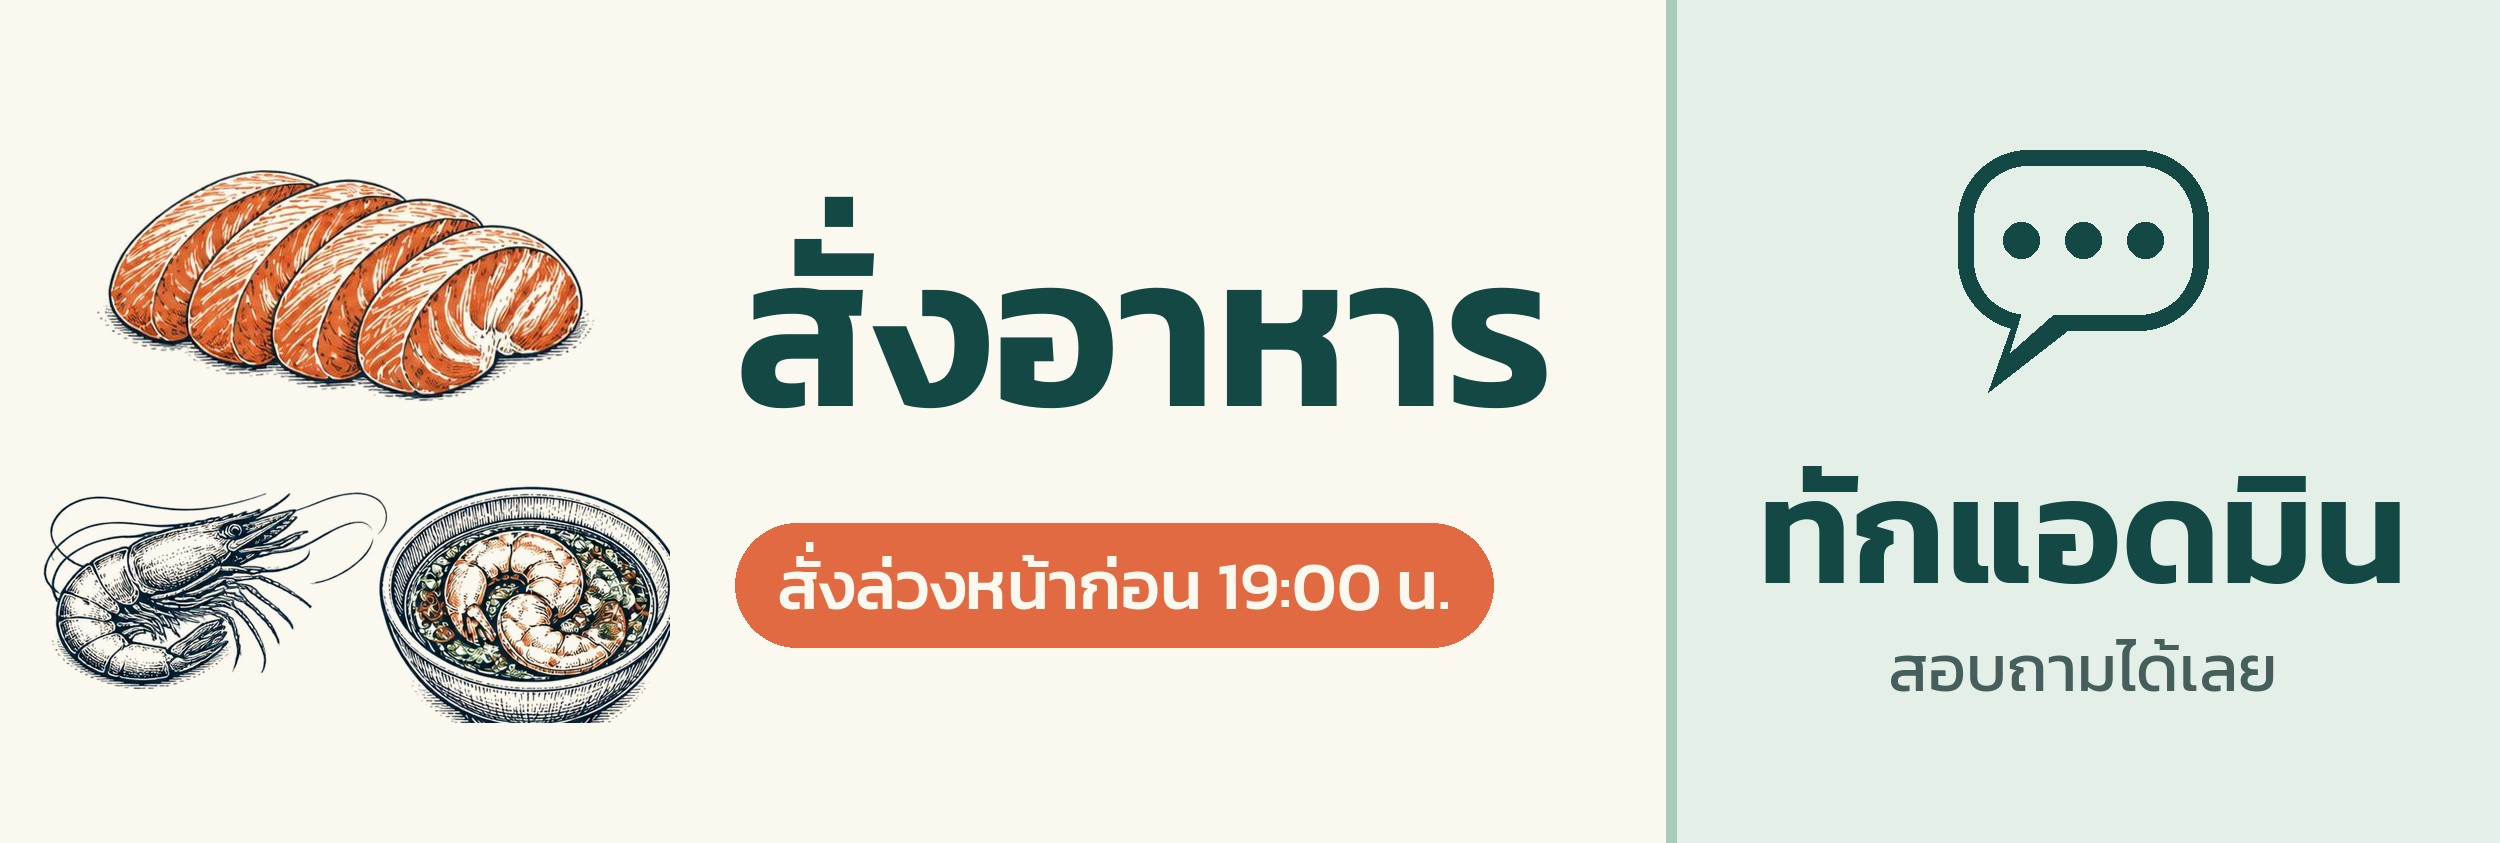
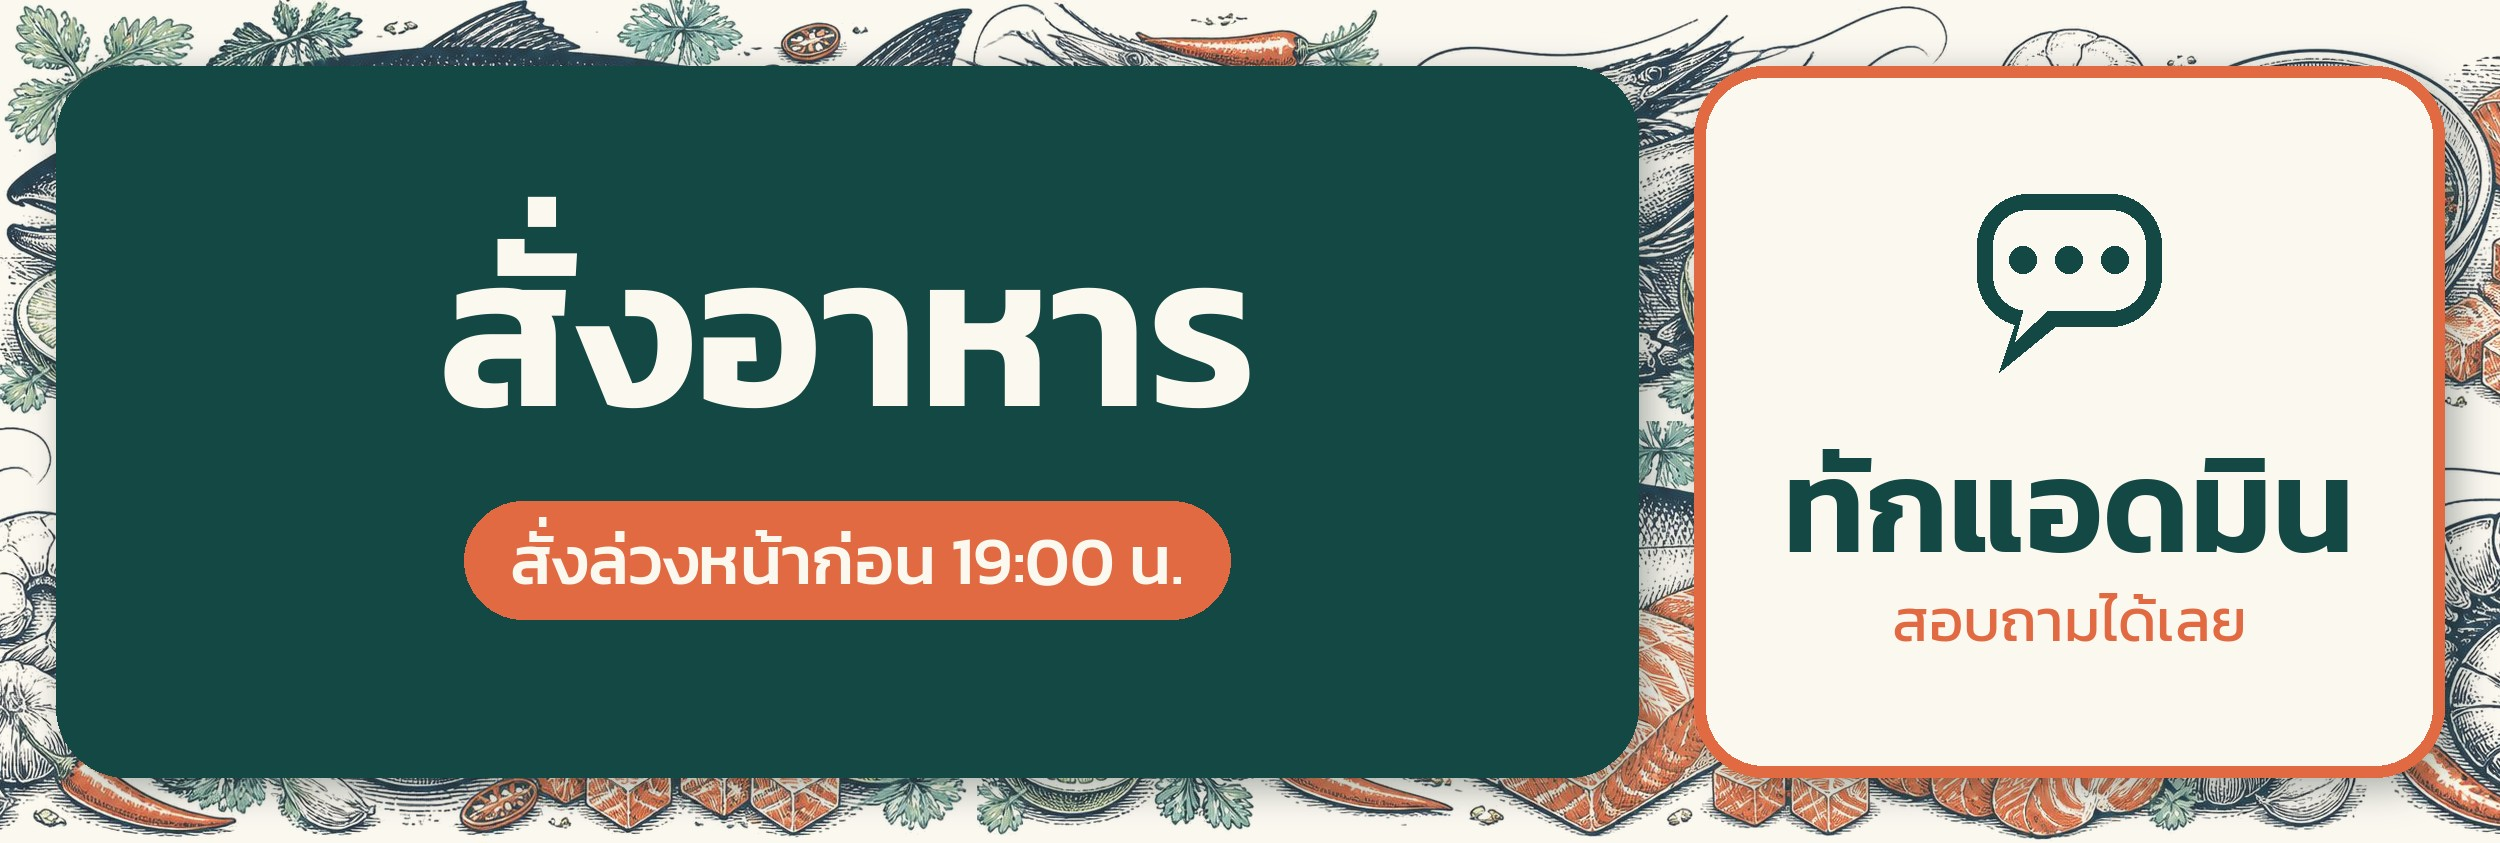
feat(shop): new LINE rich menu image (no orange frame on the order button)
Same 2500x843 layout and tap areas (split at x=1666), new artwork C picked.

Claude-Session: https://claude.ai/code/session_01CPfmM4YwK7xFYiJ9At1hJW

diff --git a/docs/shop-setup.md b/docs/shop-setup.md
@@ -104,7 +104,7 @@ Channel ID กับ Channel secret (แท็บ Basic settings) **ไม่ต
 
 ## เมนูไลน์ (Rich menu)
 ตั้งให้อัตโนมัติผ่าน Messaging API — เจ้าของร้านไม่ต้องเข้า LINE Official Account Manager
-- รูป: `public/shop/line/richmenu.jpg` (2500×843 ตามแบรนด์หลัก รูปเดียวกันทุกสาขา · ต้นฉบับ `shop/brand/ริชเมนู-LINE-2500x843.jpg` สร้างด้วย `shop/brand/สคริปต์ริชเมนู.py` ในโฟลเดอร์ไฟล์ของโปรเจกต์)
+- รูป: `public/shop/line/richmenu.jpg` (2500×843 ตามแบรนด์หลัก รูปเดียวกันทุกสาขา · ต้นฉบับ `shop/brand/ริชเมนู-แบบใหม่/richmenu-ใช้จริง-2500x843.jpg` ในโฟลเดอร์ไฟล์ของโปรเจกต์ · ไลน์รับรูปไม่เกิน 1 MB)
 - ซ้าย "สั่งอาหาร" (กว้าง 1666) → หน้าร้านของสาขา หรือ `https://liff.line.me/<LIFF ID>` ถ้าสาขามี `liff_id` · ขวา "ทักแอดมิน" → ส่งข้อความ `ขอสอบถามค่ะ/ครับ`
 - ตั้งทีละสาขาด้วย token ของสาขานั้นเอง และเช็กก่อนว่า token เป็นของ `line_id` ของสาขา · สาขาที่ยังยืม token ตัวกลางจะไม่ตั้งให้ (ไม่งั้นไปทับเมนูของสาขาแรก)
 
